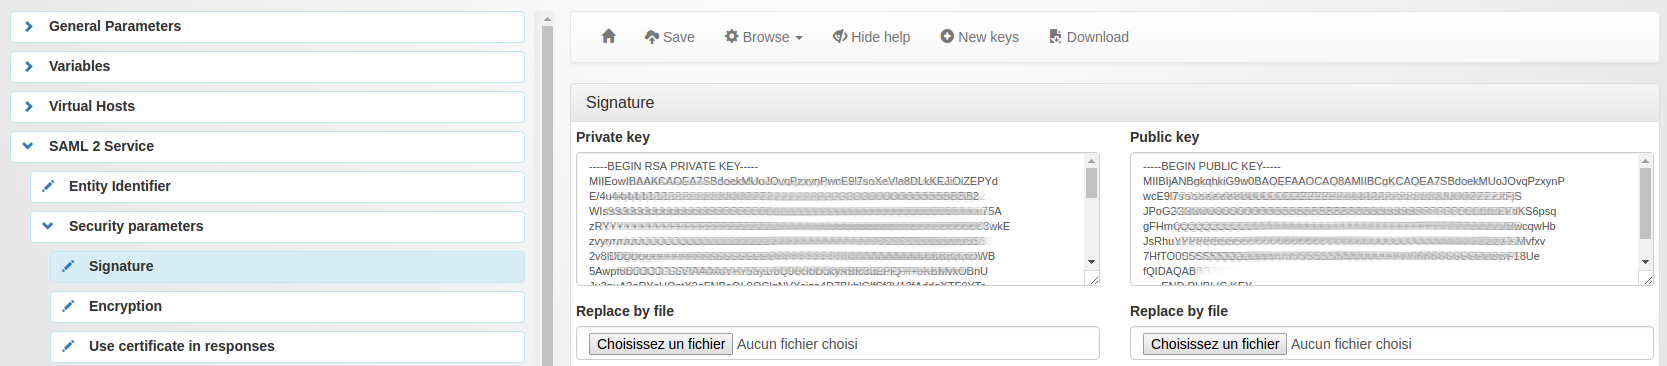
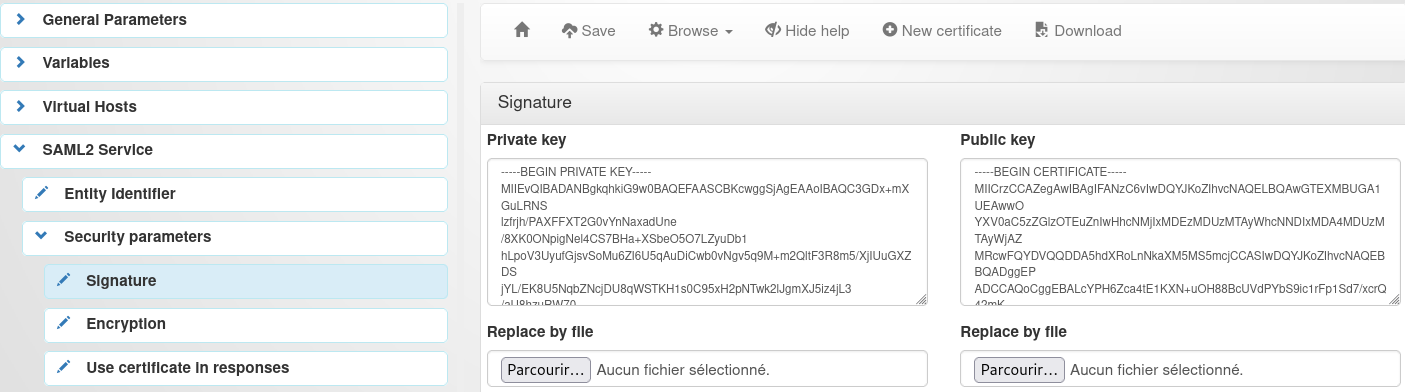
Update nextcloud SAML documentation
- screenshots from Lemonldap::NG 2.0.15.1 and Nextcloud 20.10.0
- add certificate and key creation for Nexctloud Service Provider.
- update LL:NG screenshot and test Pbulic Key is now a Certificate.
  - keep older configuration in dedicated paragraph.

Changed region(s): [[0.0, 0.0301, 1.0, 1.0], [0.9488, 0.1503, 1.0, 0.1803]]

diff --git a/doc/sources/admin/applications/nextcloud.rst b/doc/sources/admin/applications/nextcloud.rst
@@ -22,7 +22,7 @@ NextCloud
 ~~~~~~~~~
 
 You need to `install the
-software <https://docs.nextcloud.com/server/10/admin_manual/installation/index.html>`__.
+software <https://docs.nextcloud.com/server/stable/admin_manual/installation/index.html>`__.
 
 
 .. tip::
@@ -52,19 +52,66 @@ You need to enable SAML 2.0 issuer module in LL:NG:
 
 |image1|
 
+Create Certificate of Service provider for Nextcloud
+____________________________________________________
+
+You will need private key and public key within a certificate to
+identify your SP in LL:NG Idp.
+
+Select a host with a secure filesystem as a secure random source since private keys are generated.
+
+To create a private key and self-sign a certificate for its public key
+
+please adapt to your country/state
+
+It is recommended to use nextcloud hostname for Common Name.
+
+::
+
+   certname=nextcloud_saml
+   openssl req -new -newkey rsa:4096 -keyout $certname.key -nodes -out $certname.pem -x509 -days 3650
+
+   Country Name (2 letter code) [AU]:BTN
+   State or Province Name (full name) [Some-State]:North
+   Locality Name (eg, city) []:Thimphou
+   Organization Name (eg, company) [Internet Widgits Pty Ltd]:NGO
+   Organizational Unit Name (eg, section) []:
+   Common Name (e.g. server FQDN or YOUR name) []:nextcloud.example.com
+   Email Address []:
+
+Please note that once you have copied those in following process it is recommended to remove private
+key file from your system.
+
 NextCloud, SAML 2.0 configuration
 ---------------------------------
 
 Configuration of SAML 2.0 in NextCloud is pretty straightforward.
 
+You need to install for Application 'SSO & SAML authentication' that is documented here
+<https://apps.nextcloud.com/apps/user_saml>
+
 ::
 
-   Administration -> SAML authentication
+   Administration -> SSO & SAML authentication
 
 You will find the following fields:
 
+-  **Allow the use of multiple user back-ends (e.g. LDAP)**
+   Activate it during configuration, remove it later only once a saml
+   user with administration rights can login.
+
 -  **Attribute to map the UID to**: Identity attribute provided by your
    LL:NG that will be used as UID in NextCloud.
+-  **Optional display name of the identity provider**: choose a name
+   meaningfull to identify this nextcloud app without spaces to use
+   it in LL:NG too.
+-  **Service Provider Data**:
+
+   - **Name ID format**: select Email Address
+   - **X509 certificate of Service provider**: a Certificate you have
+     created previously for this purpose
+   - **Private key of the Service provider**: private key corresponding
+     to public key within certificate of Service provider.
 -  **Identity Provider Data**:
 
    -  **Identifier of the IdP entity**: SAML Metadata URL of your LL:NG
@@ -73,16 +120,57 @@ You will find the following fields:
    -  **URL Location of the IdP where the SP will send the SLO
       Request**: SingleLogOut URL of your LL:NG
    -  **Public X.509 certificate of the IdP**: Certificate of your LL:NG
-      (see below for instructions)
 
-We need a few steps to generate our LL:NG certificate (unless you
-already have one). You first need to create a pair of SSH Keys in LL:NG:
+Your fields should look like this: |image3|
+
+Recent versions of LL:NG are already configured to use Certificates
+instead public key so you can obtain pem encoded certificate directly
+by Copy/Paste of certificate field in the "Public X.509 certificate of
+the IdP" field of your NextCloud.
+
+For older versions you new to create a certificate see below
+
+You can now download your metadata xml file.
+
+
+LL:NG, SAML 2.0 Service Provider configuration
+----------------------------------------------
+
+We now have to define a service provider (e.g our nextcloud) in LL:NG.
+
+Go to "SAML service providers", click on "Add SAML SP" and name it as
+you want (example : 'NextCloud') ( was 'NGOSSO' in previous screenshoot )
+
+In the new subtree 'NextCloud', open 'Metadata' and paste the content of
+your previously downloaded file (or upload the file)
+
+|image4|
+
+Now go in "Exported attributes" and add, at least, the 'uid'
+
+|image5|
+
+You might need to add 'mail' to fill expected NameID from NextCloud or
+to configure explicit 'uid' NameID mapping in **Force NameID session key**.
+
+Don't forget to save your configuration.
+
+You are now good to go, and you can add the application in
+:doc:`your menu<../portalmenu>` and
+:doc:`your virtual hosts<../configvhost>`.
+
+
+LL:NG Older version with Public Key
+-----------------------------------
+
+For older version of LL:NG, we need a few steps to generate our LL:NG certificate
+(unless you already have one). You first need to create a pair of keys in LL:NG:
 
 ::
 
    SAML 2 Service -> Security Parameters -> Signature
 
-and click "New keys" |image2|
+and click "New keys" |image6|
 
 Take the private key in a private.key file, and run the following:
 
@@ -94,32 +182,7 @@ Take the private key in a private.key file, and run the following:
 Copy/Paste the content of your new cert.pem in the "Public X.509
 certificate of the IdP" field of your NextCloud.
 
-Your fields should look like this: |image3|
-
-You can now download your metadata xml file.
-
-LL:NG, SAML 2.0 Service Provider configuration
-----------------------------------------------
-
-We now have to define a service provider (e.g our nextcloud) in LL:NG.
-
-Go to "SAML service providers", click on "Add SAML SP" and name it as
-you want (example : 'NextCloud')
-
-In the new subtree 'NextCloud', open 'Metadata' and paste the content of
-your previously downloaded file (or upload the file)
-
-|image4|
-
-Now go in "Exported attributes" and add, at least, the 'uid'
-
-|image5|
-
-Don't forget to save your configuration.
-
-You are now good to go, and you can add the application in
-:doc:`your menu<../portalmenu>` and
-:doc:`your virtual hosts<../configvhost>`.
+Your fields should look like this: |image6|
 
 .. |image0| image:: /applications/nextcloud-logo.png
    :class: align-center
@@ -133,4 +196,5 @@ You are now good to go, and you can add the application in
    :class: align-center
 .. |image5| image:: /applications/nextcloud_service_exportedattributes.png
    :class: align-center
-
+.. |image6| image:: /applications/nextcloud_key_pair.png
+   :class: align-center
